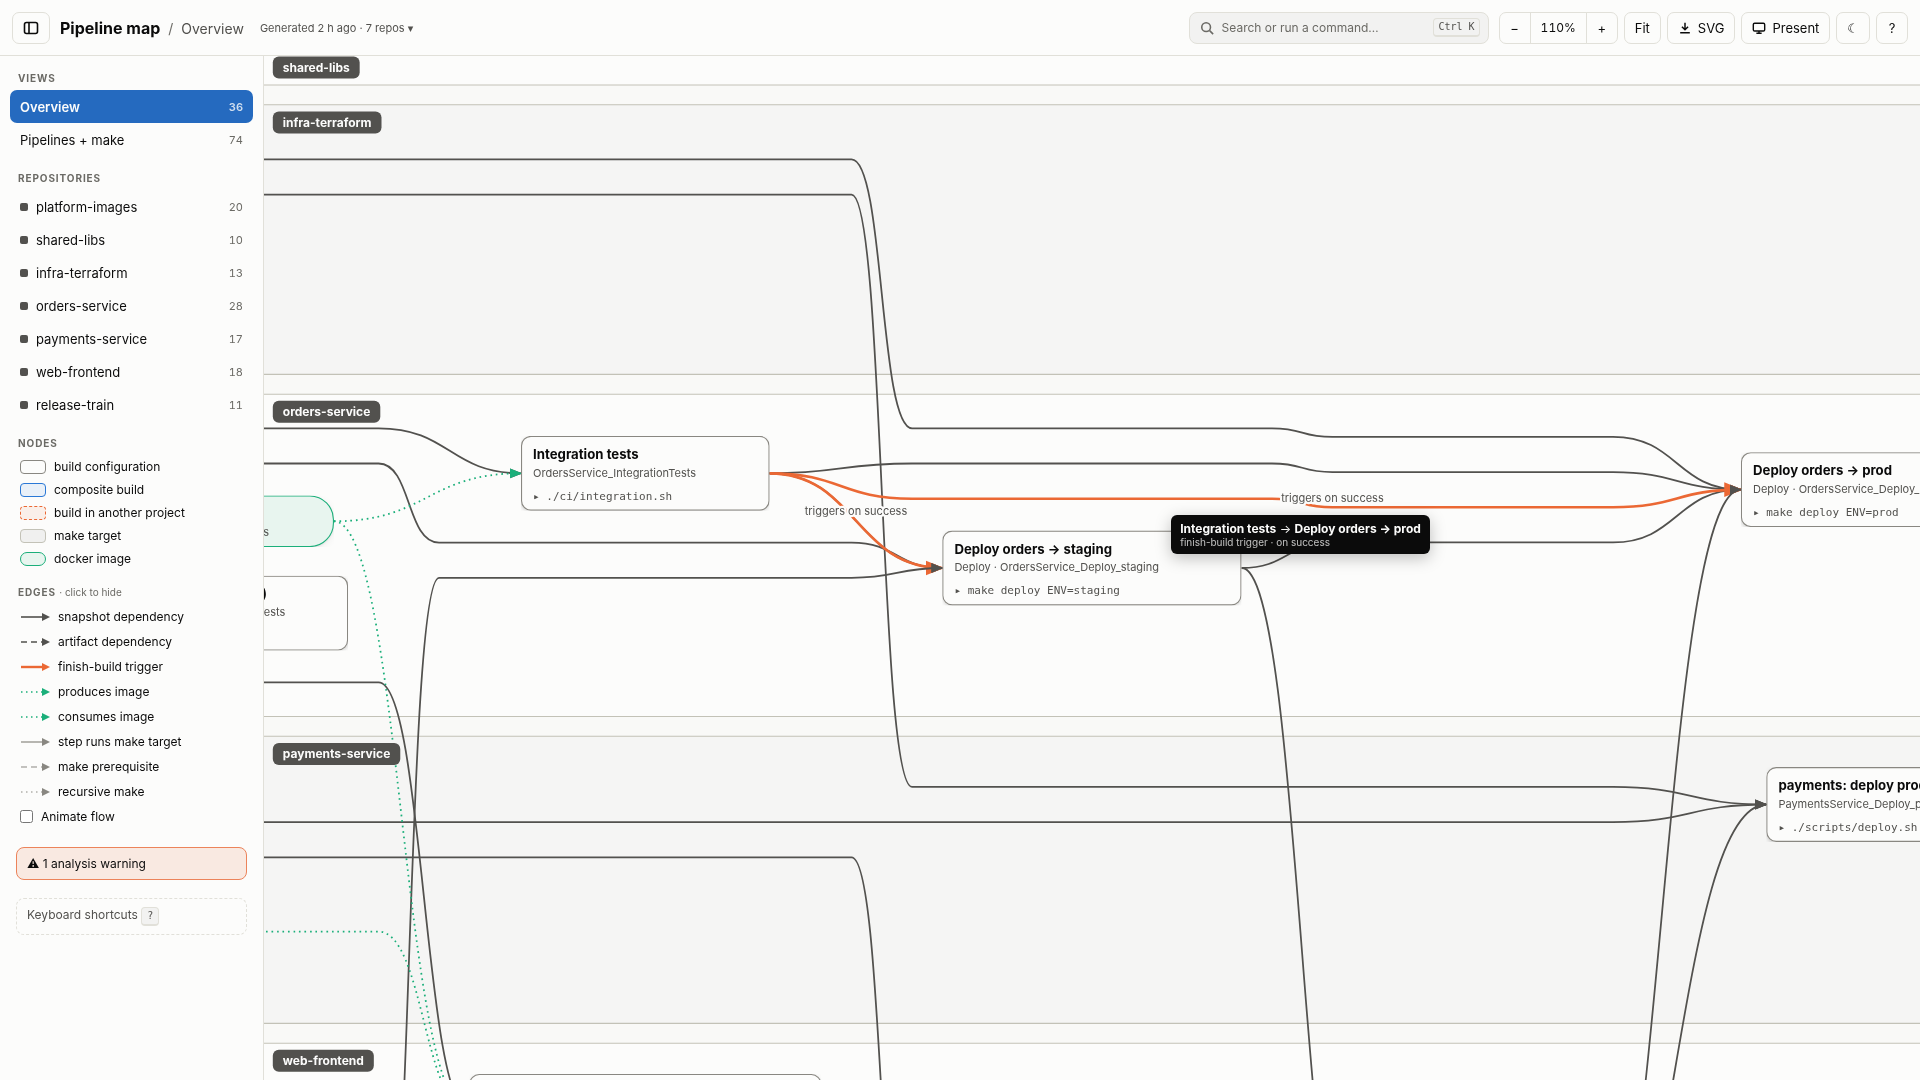
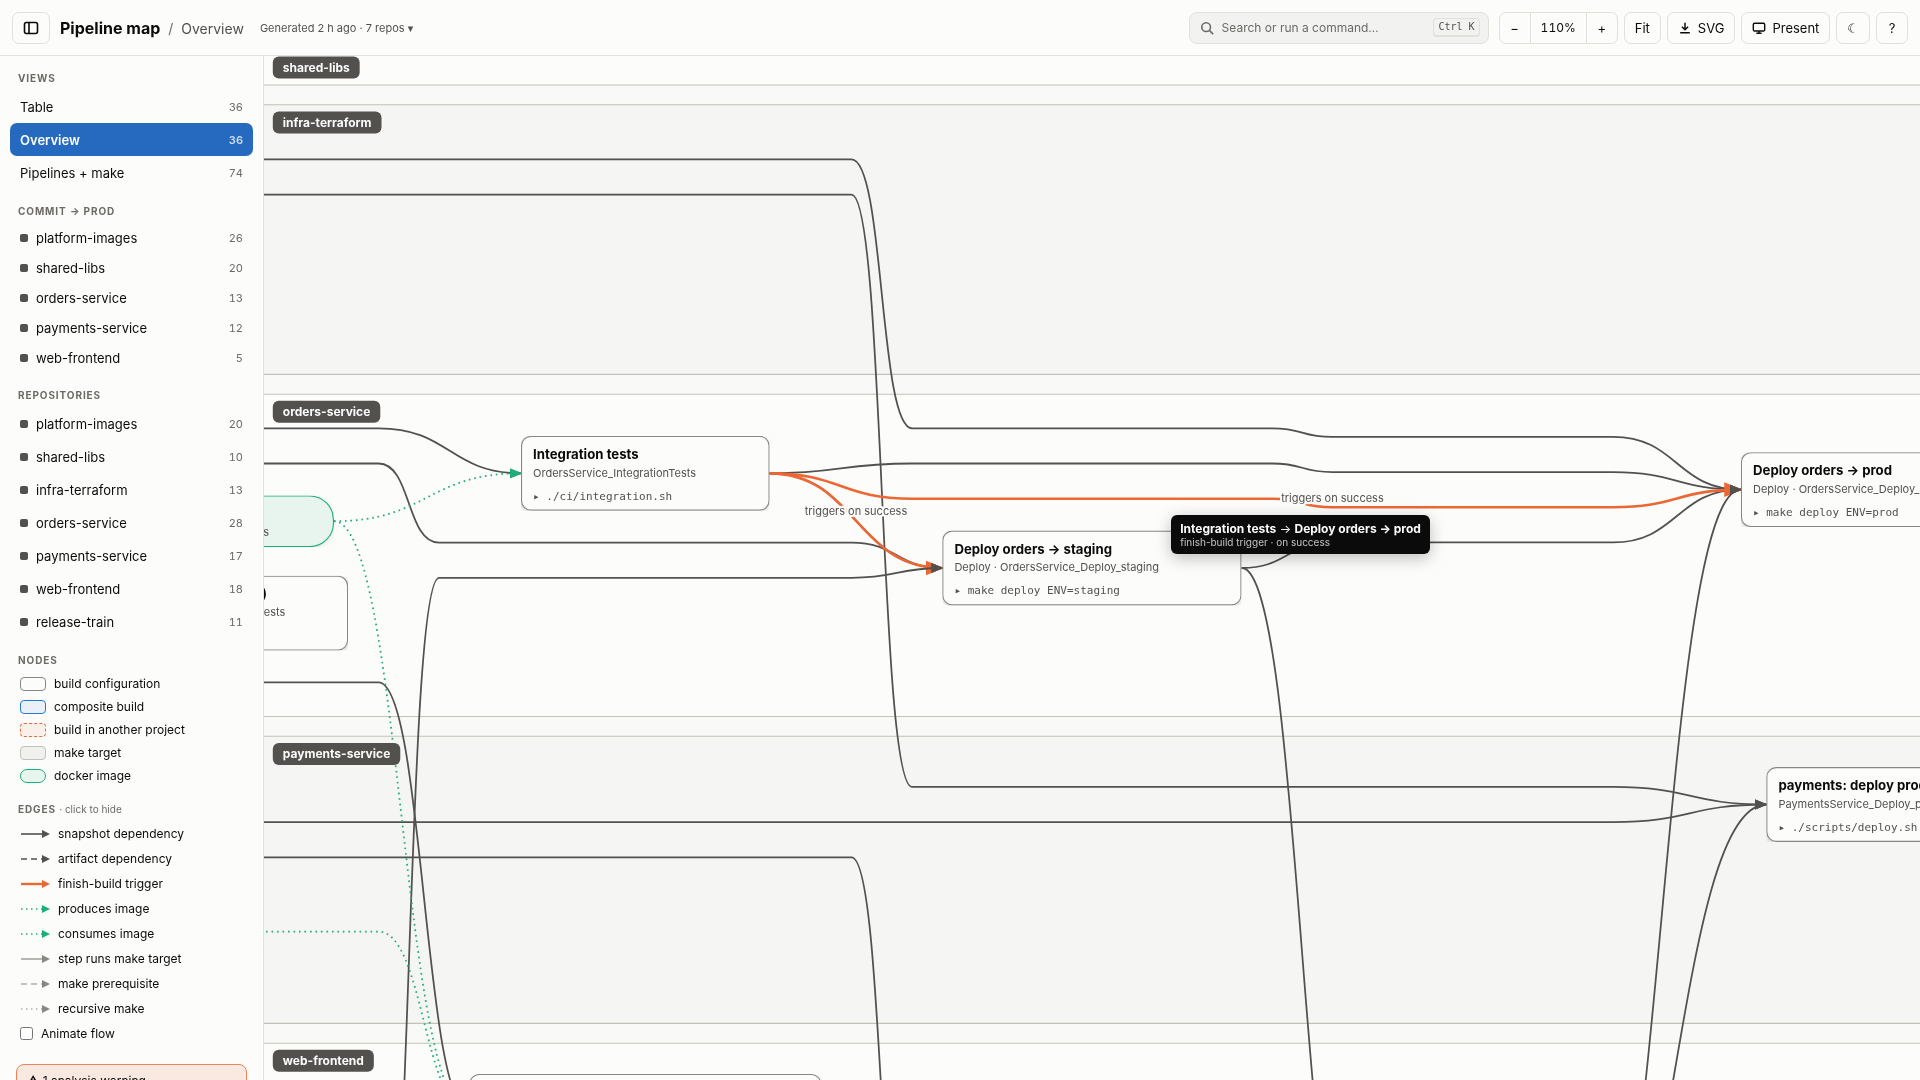
docs(screenshots): regenerate and add table, focus and flow views

Changed region(s): [[0.0, 0.0611, 0.1562, 1.0]]

diff --git a/docs/screenshots/README.md b/docs/screenshots/README.md
@@ -2,6 +2,24 @@
 
 Generated by `make screenshots` from the [Acme example](../../examples/acme); do not edit by hand.
 
+## Find any job, and see what it can break
+
+The page opens on a table of every job and image: triggers, images built or used, how many jobs it needs and how many it breaks. Sorted by blast radius by default, filterable with `/`. `Enter` focuses a row.
+
+![Find any job, and see what it can break](table.png)
+
+## Focus: just the chain that matters
+
+Focus re-lays out only a job's upstream and downstream, in one band ordered by dependency, so a change's impact is not spread over seven repository lanes. `B`, `D`, `I` and the path finder work here too.
+
+![Focus: just the chain that matters](focus.png)
+
+## From commit to prod
+
+Per repository: every job a commit triggers and everything downstream of it, ending at the deploys.
+
+![From commit to prod](flow.png)
+
 ## Every pipeline, every repo, one page
 
 Seven repositories, their TeamCity build configurations, snapshot and artifact dependencies, finish-build triggers, and the docker images passed between them. Each repo is a lane, and work flows left to right.
